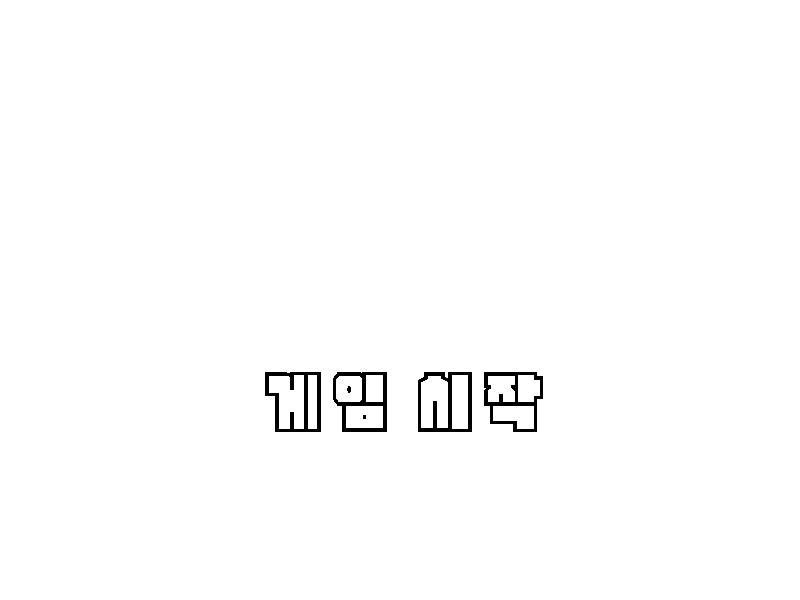
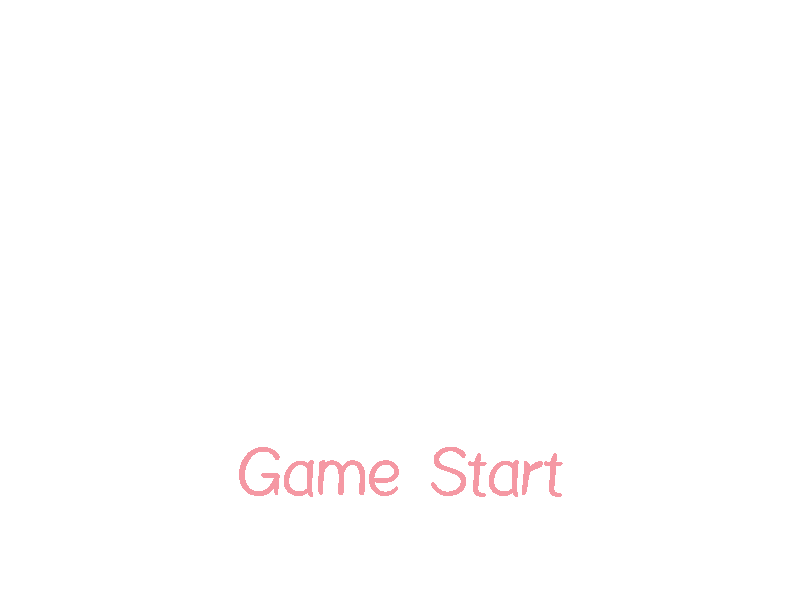
2015.10.26

Changed region(s): [[0.3125, 0.6, 0.6875, 0.72], [0.2812, 0.72, 0.5, 0.84], [0.5312, 0.75, 0.7188, 0.84]]

diff --git a/main_state.py b/main_state.py
@@ -1,6 +1,4 @@
 
-__author__ = 'Min'
-
 import sys
 import random
 import json
@@ -12,88 +10,97 @@ from pico2d import *
 
 name = "MainState"
 running = None
-class Grass:
+x, y = 0, 0
+class Background:
     def __init__(self):
-        self.image = load_image('grass.png')
+        self.image = load_image('resource/game_background.png')
 
     def draw(self):
-        self.image.draw(400, 30)
+        self.image.draw(400,300)
 
 
-class Boy:
+class Main_character:
     image = None
 
-    LEFT_RUN, RIGHT_RUN, LEFT_STAND, RIGHT_STAND = 0, 1, 2, 3
+    STAND, GO_RIGHT = 0, 1
 
-
-    def handle_left_run(boy):
-        boy.x -= 5
-        boy.run_frames += 1
-        if boy.x < 0:
-            boy.state = boy.RIGHT_RUN
-            boy.x = 0
-        if boy.run_frames == 50:
-            boy.state = boy.LEFT_STAND
-
-
-    def handle_left_stand(boy):
-        boy.stand_frames += 1
-        if boy.stand_frames == 25:
-            boy.state = boy.LEFT_RUN
-
-
-
-    def handle_right_run(boy):
-        boy.x += 5
-        boy.run_frames += 1
-        if boy.x > 800:
-            boy.state = boy.LEFT_RUN
-            boy.x = 800
-        if boy.run_frames == 50:
-            boy.state = boy.RIGHT_STAND
-
-    def handle_right_stand(boy):
-        boy.stand_frames += 1
-        if boy.stand_frames == 25:
-            boy.state = boy.RIGHT_RUN
-
-    handle_state = {
-                LEFT_RUN: handle_left_run,
-                RIGHT_RUN: handle_right_run,
-                LEFT_STAND: handle_left_stand,
-                RIGHT_STAND: handle_right_stand
-    }
-
-
-    def update(boy):
-         boy.frame = (boy.frame + 1) % 8
-         boy.handle_state[boy.state](boy)
-
-
-
-    def __init__(boy):
-        boy.x, boy.y = random.randint(100, 700), 90
-        boy.frame = random.randint(0, 7)
-        boy.run_frames = 0
-        boy.stand_frames = 0
-        boy.state = boy.RIGHT_RUN
-        if Boy.image == None:
-            Boy.image = load_image('animation_sheet.png')
+    def __init__(self):
+        self.x, self.y = 50, 183
+        self.state = None
+        if self.image == None:
+            self.image = load_image('resource/main_character.png')
 
     def draw(self):
-        boy.image.clip_draw(self.frame * 100, self.state * 100, 100, 100, self.x, self.y)
+        self.image.draw(self.x, self.y)
 
+    def handle_go_right(self):
+        if self.state == self.GO_RIGHT:
+            self.x += 5
+            if self.x > 800:
+                self.x = 800
 
+    def handle_stand(self):
+        if self.state == self.STAND:
+            self.x += 0
+
+    handle_state = {
+        GO_RIGHT: handle_go_right,
+        STAND: handle_stand
+    }
+    def update(self):
+        self.handle_state[self.state](self)
+
+class Ground:
+    def __init__(self):
+        self.image = load_image('resource/ground.png')
+
+    def draw(self):
+        self.image.draw(400,300)
+
+class Dot:
+    image = None
+    global x, y
+    def __init__(self):
+        self.x, self.y = 400 + x, 300 + y
+        if self.image == None:
+            self.image = load_image('resource/dot.png')
+
+    def draw(self):
+        self.image.draw(x, y)
+
+    def update(self):
+        self.image.draw(x, y)
+""" 시작 버튼
+class Start_button:
+    image = None
+
+    def __init__(self):
+        self.x, self.y = 50, 550
+        if self.image == None:
+            self.image = load_image('resource/start_button.png')
+
+    def draw(self):
+        self.image.draw(self.x, self.y)
+
+    def update(self):
+        pass
+"""
 def enter():
-    global boy, grass
-    boy = Boy()
-    grass = Grass()
+    global maincharacter, background, startbutton, dot, ground
+    maincharacter = Main_character()
+    background = Background()
+    #startbutton = Start_button()
+    dot = Dot()
+    ground = Ground()
 
 
 def exit():
-    global boy, grass
-    del(boy)
-    del(grass)
+    global maincharacter, background, startbutton, dot, ground
+    del(maincharacter)
+    del(background)
+    #del(startbutton)
+    del(dot)
+    del(ground)
 
 def pause():
     pass
@@ -104,6 +111,7 @@ def resume():
 
 def handle_events():
     global running
+    global x, y
     events = get_events()
     for event in events:
         if event.type == SDL_QUIT:
@@ -111,51 +119,49 @@ def handle_events():
         elif event.type == SDL_KEYDOWN and event.key == SDLK_ESCAPE:
             game_framework.change_state(title_state)
         elif(event.type, event.key) == (SDL_KEYDOWN, SDLK_SPACE):
-            if boy.state == boy.RIGHT_RUN:
-                boy.run_frames = 0
-                boy.state = boy.LEFT_RUN
-            elif boy.state == boy.LEFT_RUN:
-                boy.run_frames = 0
-                boy.state = boy.RIGHT_RUN
-            elif boy.state == boy.RIGHT_STAND:
-                boy.stand_frames = 0
-                boy.state = boy.RIGHT_RUN
-            elif boy.state == boy.LEFT_STAND:
-                boy.stand_frames = 0
-                boy.state = boy.LEFT_RUN
+            maincharacter.x += 5
+        elif event.type == SDL_MOUSEBUTTONDOWN and event.type == SDL_MOUSEMOTION:
+            dot.x, dot.y = event.x, event.y
+            dot.image.draw()
+
 
 
 
 
 def update():
-    boy.update()
-    delay(0.05)
+    pass
 
 
 def draw():
     clear_canvas()
-    grass.draw()
-    boy.draw()
+    background.draw()
+    maincharacter.draw()
+    #startbutton.draw()
+    ground.draw()
     update_canvas()
 
 def main():
 
     open_canvas()
 
-    boy = Boy()
-    grass = Grass()
-
+    maincharacter = Main_character()
+    background = Background()
+    #startbutton = Start_button()
+    ground = Ground()
     global running
     running = True
 
     while running:
         handle_events()
 
-        boy.update()
+        maincharacter.update()
 
         clear_canvas()
-        grass.draw()
-        boy.draw()
+        background.draw()
+        maincharacter.draw()
+        dot.draw()
+        ground.draw()
+       # startbutton.draw()
         update_canvas()
 
         delay(0.04)

diff --git a/title_state.py b/title_state.py
@@ -11,7 +11,7 @@ def enter():
     global image
     global title_menu
     image = load_image('resource/title.png') # 여기에 첫 메인 게임 화면 넣기
-    title_menu = load_image('resource/title_menu.png')
+    title_menu = load_image('resource/title_menu_gamestart.png')
 
 def exit():
     global image
@@ -37,9 +37,7 @@ def draw():
     update_canvas()
 
 def update():
-    global boy
-    boy.draw()
-
+    pass
 def pause():
     pass
 
